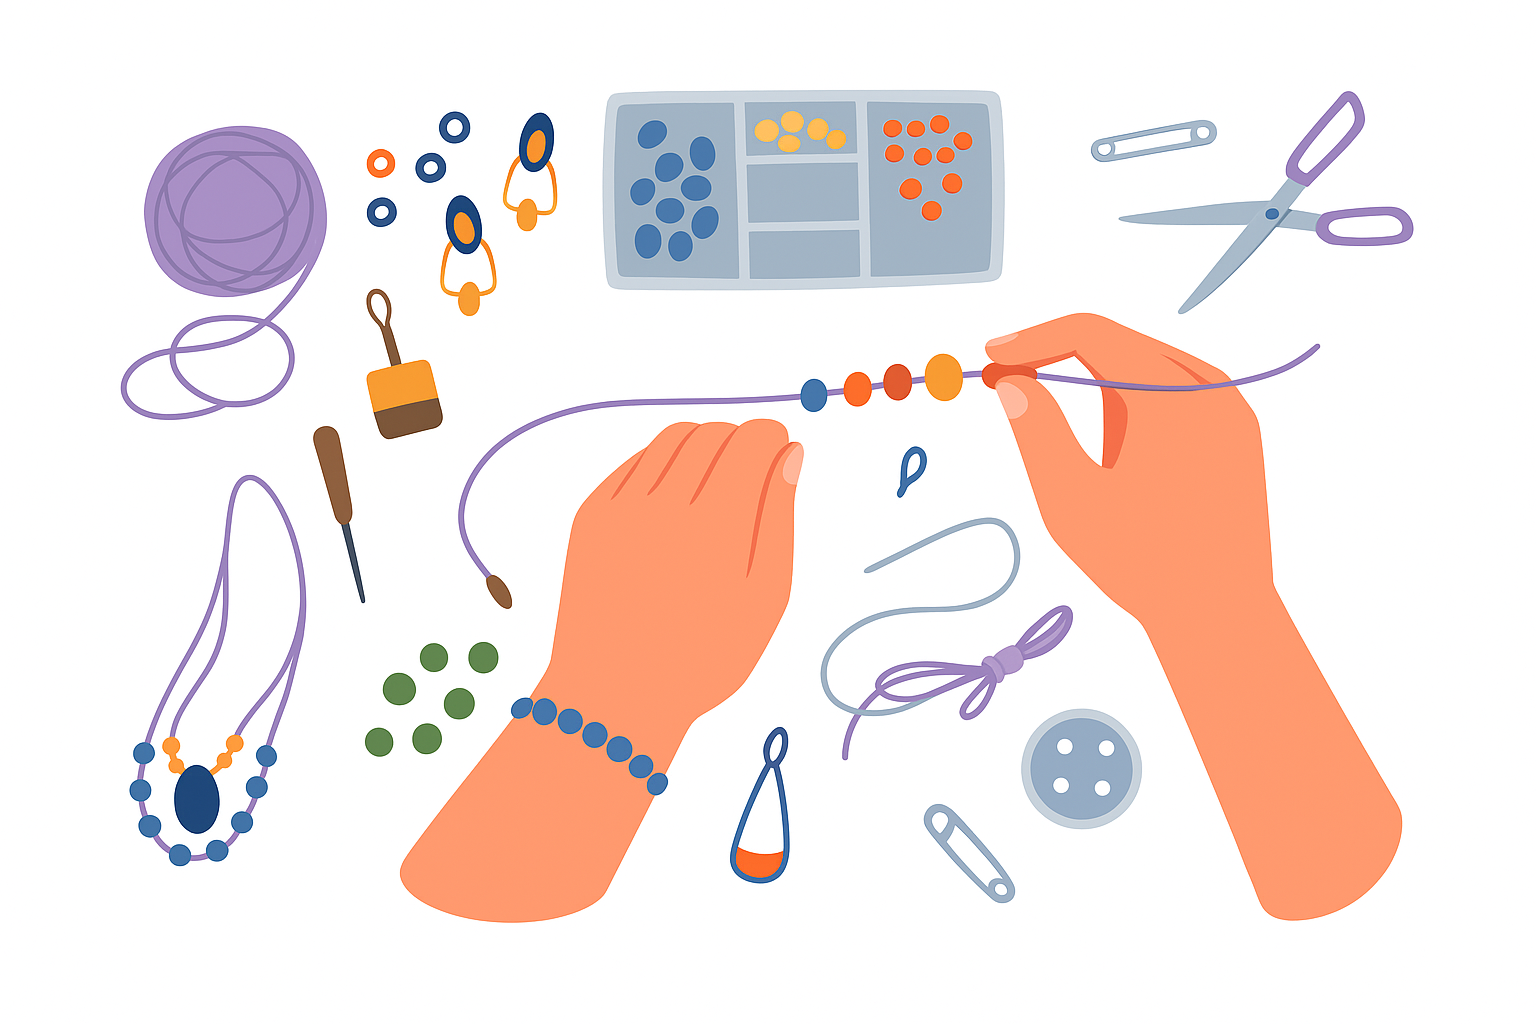
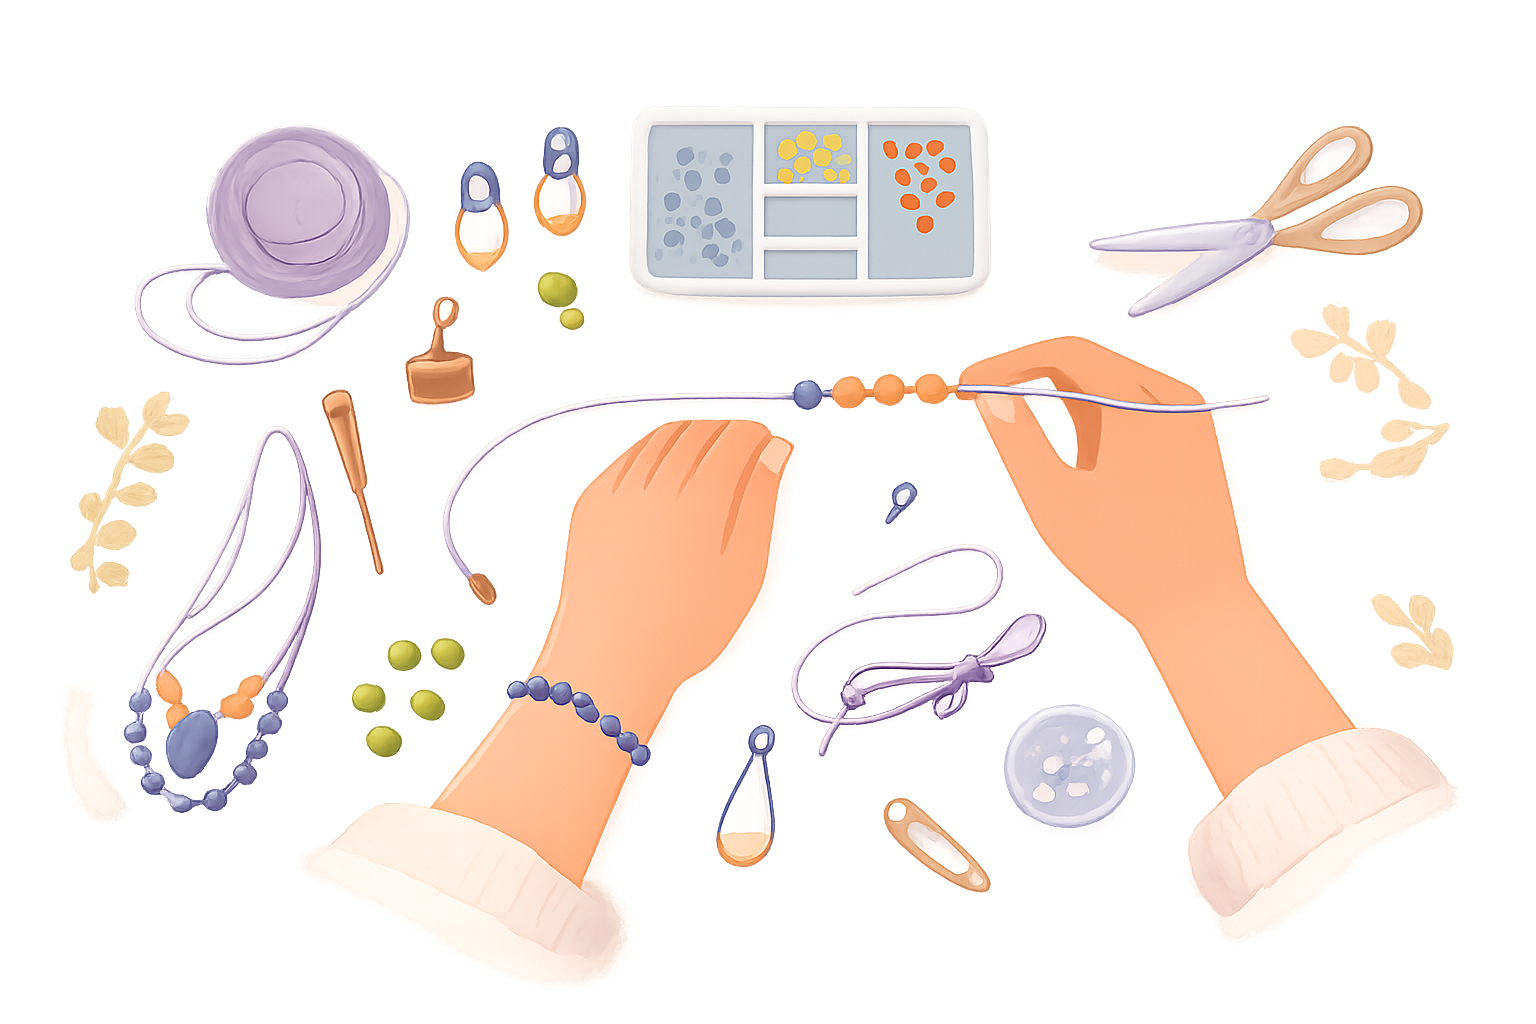
Add background-color

diff --git a/frontend/src/components/Navbar.jsx b/frontend/src/components/Navbar.jsx
@@ -4,19 +4,21 @@ import { NavLink } from "react-router-dom";
 
 const Navbar = () => {
   return (
-    <nav className="h-20 bg-white px-6 shadow-[0_2px_8px_rgba(0,0,0,0.06)]">
+    <nav className="h-20 bg-white px-6 shadow-[0_4px_16px_rgba(0,0,0,0.06)]">
       <div className="relative flex items-center h-full max-w-7xl mx-auto">
+        {/* Logo */}
         <img src={assets.logo} alt="Youtique" className="w-36" />
 
+        {/* Center links */}
         <ul
           className="
             hidden lg:flex absolute left-1/2 -translate-x-1/2
             items-center gap-10
-            text-[15px] font-light tracking-wide text-gray-800
+            text-[15px] font-light tracking-wide text-[#3A2E2A]
 
             [&_a]:relative
             [&_a]:transition-colors
-            [&_a:hover]:text-gray-500
+            [&_a:hover]:text-[#C9A24D]
 
             [&_a::after]:content-['']
             [&_a::after]:absolute
@@ -24,7 +26,7 @@ const Navbar = () => {
             [&_a::after]:-bottom-1
             [&_a::after]:h-px
             [&_a::after]:w-0
-            [&_a::after]:bg-gray-400
+            [&_a::after]:bg-[#C9A24D]
             [&_a::after]:transition-all
             [&_a::after]:duration-300
             [&_a:hover::after]:w-full
@@ -34,8 +36,14 @@ const Navbar = () => {
           <NavLink to="/collections">Collection</NavLink>
           <NavLink to="/about">About</NavLink>
         </ul>
+
+        {/* Right icons */}
         <div className="flex items-center gap-6 ml-auto">
-          <img src={assets.loginImg} alt="" className="w-5 cursor-pointer" />
+          <img
+            src={assets.loginImg}
+            alt="Login"
+            className="w-5 cursor-pointer opacity-80 hover:opacity-100 transition"
+          />
         </div>
       </div>
     </nav>

diff --git a/frontend/src/App.jsx b/frontend/src/App.jsx
@@ -9,7 +9,7 @@ import { Routes, Route } from "react-router-dom";
 
 const App = () => {
   return (
-    <>
+    <div className="min-h-screen bg-[#FCE7D8]">
       <Navbar />
       <Routes>
         <Route path="/" element={<Home />} />
@@ -18,7 +18,7 @@ const App = () => {
         <Route path="/login" element={<Login />} />
         <Route path="*" element={<NotFound />} />
       </Routes>
-    </>
+    </div>
   );
 };
 
